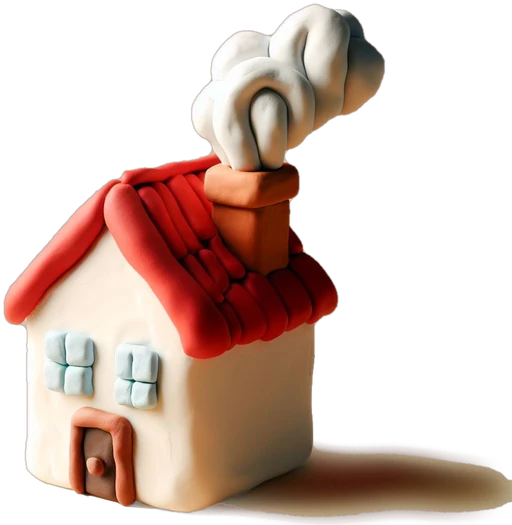
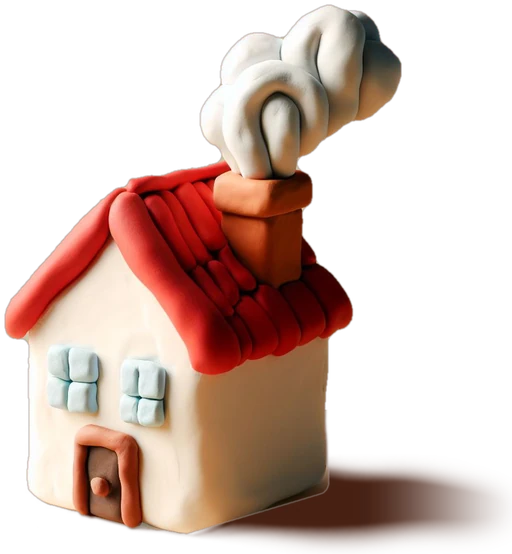
fix: smooth the house shadow and stop it being cut on the right
The shadow core was being treated as part of the house, which left a hard
ring around it. Cut the object mask at the ground line and build the shadow
as a separate smooth layer that tapers to nothing before the image edge.
Round the wall's lower-right corner left by the ground cut.

Claude-Session: https://claude.ai/code/session_01T4gzLYjrmPYrvPEheweNQY

Changed region(s): [[0.0, 0.0, 1.0, 1.0], [0.0938, 0.4267, 0.125, 0.4571]]

diff --git a/src/components/house-mark.tsx b/src/components/house-mark.tsx
@@ -11,7 +11,7 @@ import Image, { type ImageLoaderProps } from 'next/image';
  * smallest one that covers the requested width, so nothing is re-encoded.
  * The untouched originals are in `public/brand/fasi-source/`.
  */
-const SIZES = [256, 512, 847] as const;
+const SIZES = [256, 512, 813] as const;
 
 function houseLoader({ width }: ImageLoaderProps) {
   const size = SIZES.find((s) => s >= width) ?? SIZES[SIZES.length - 1];
@@ -24,8 +24,8 @@ export function HouseMark({ className }: Readonly<{ className?: string }>) {
       loader={houseLoader}
       src="casa-plastelina"
       alt=""
-      width={847}
-      height={868}
+      width={813}
+      height={879}
       sizes="(min-width: 768px) 320px, 70vw"
       className={`object-contain ${className ?? ''}`}
     />

diff --git a/DESIGN.md b/DESIGN.md
@@ -135,7 +135,7 @@ Do not apply 20px radii to dense elements (table cells, calendar bars): it reads
 
 ## Illustration
 
-- The house is FASI's plasticine photo (`public/brand/`, cut out with its soft shadow kept, WebP in 847/512/256 px; originals in `public/brand/fasi-source/`), rendered by `src/components/house-mark.tsx`. It is the wordmark mark, the landing page illustration and the empty-state mark ("No queda res pendent").
+- The house is FASI's plasticine photo (`public/brand/`, cut out with its soft shadow kept, WebP in 813/512/256 px; originals in `public/brand/fasi-source/`), rendered by `src/components/house-mark.tsx`. It is the wordmark mark, the landing page illustration and the empty-state mark ("No queda res pendent").
 - **TODO before launch: confirm FASI's permission to use the image**, or replace it with a commissioned illustration in the same clay style.
 
 ## Anti-Patterns
